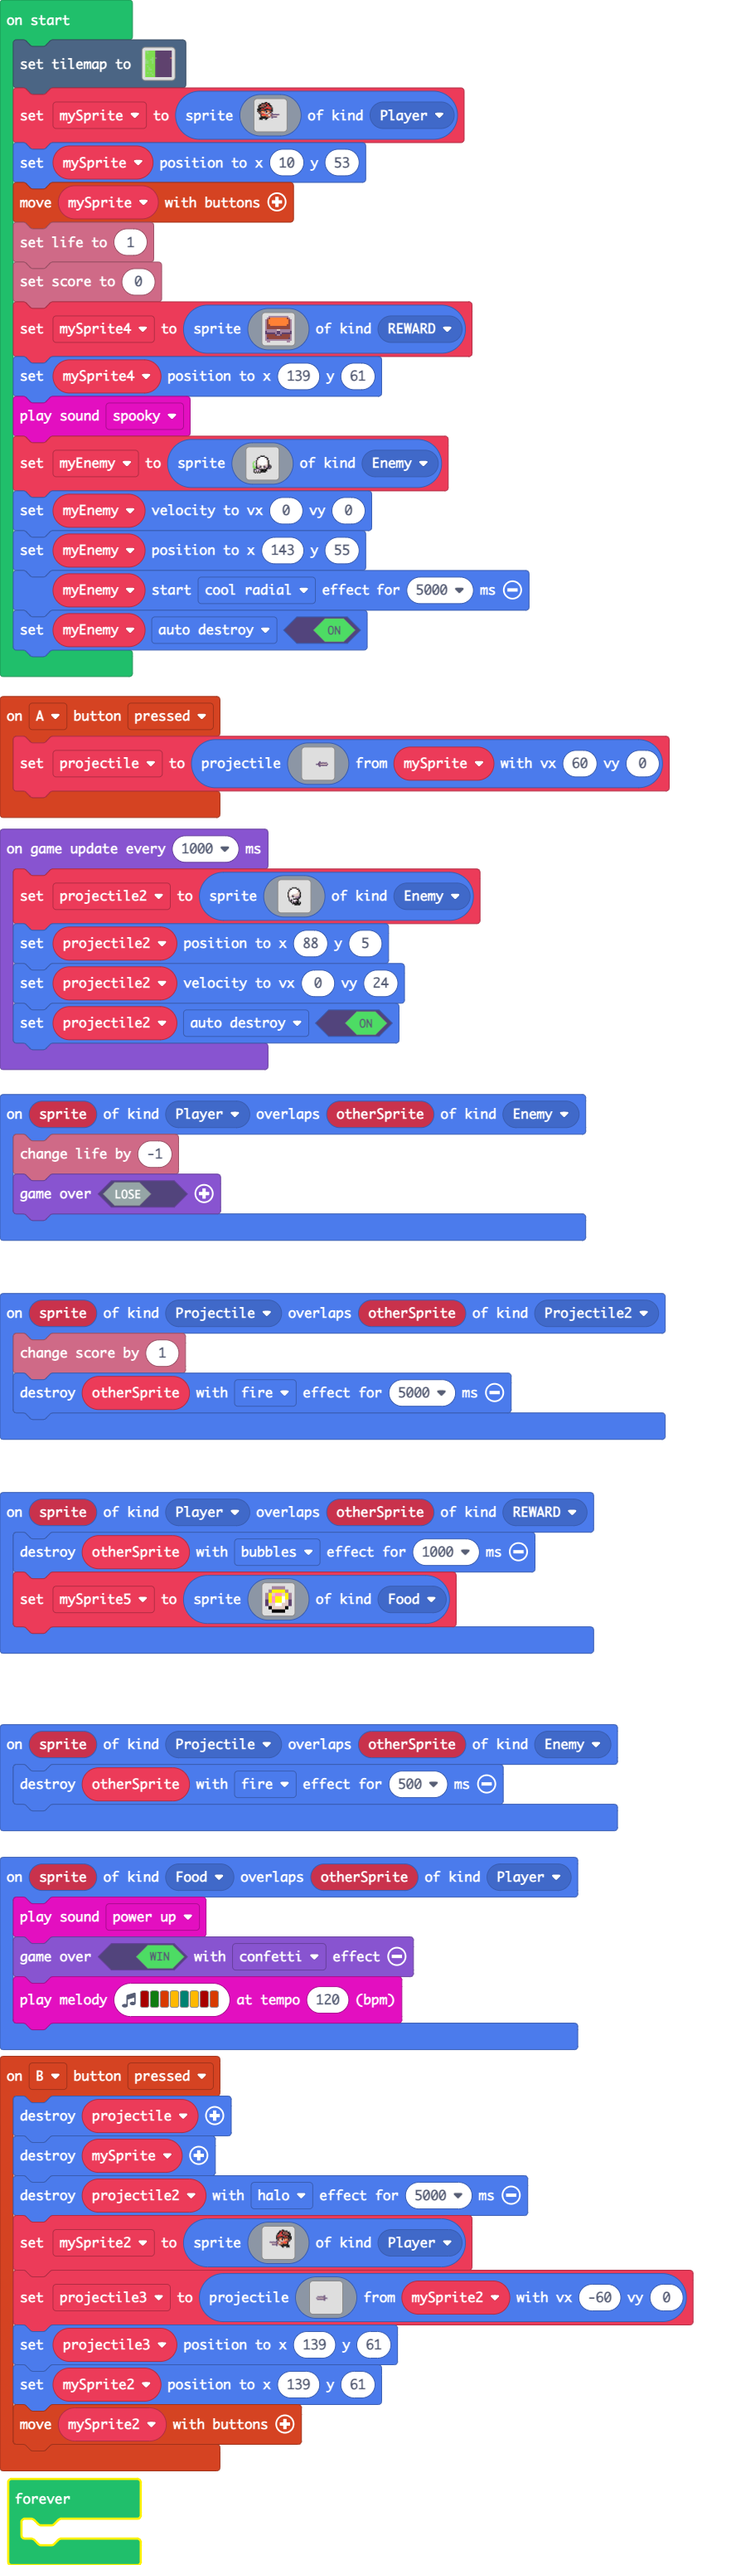
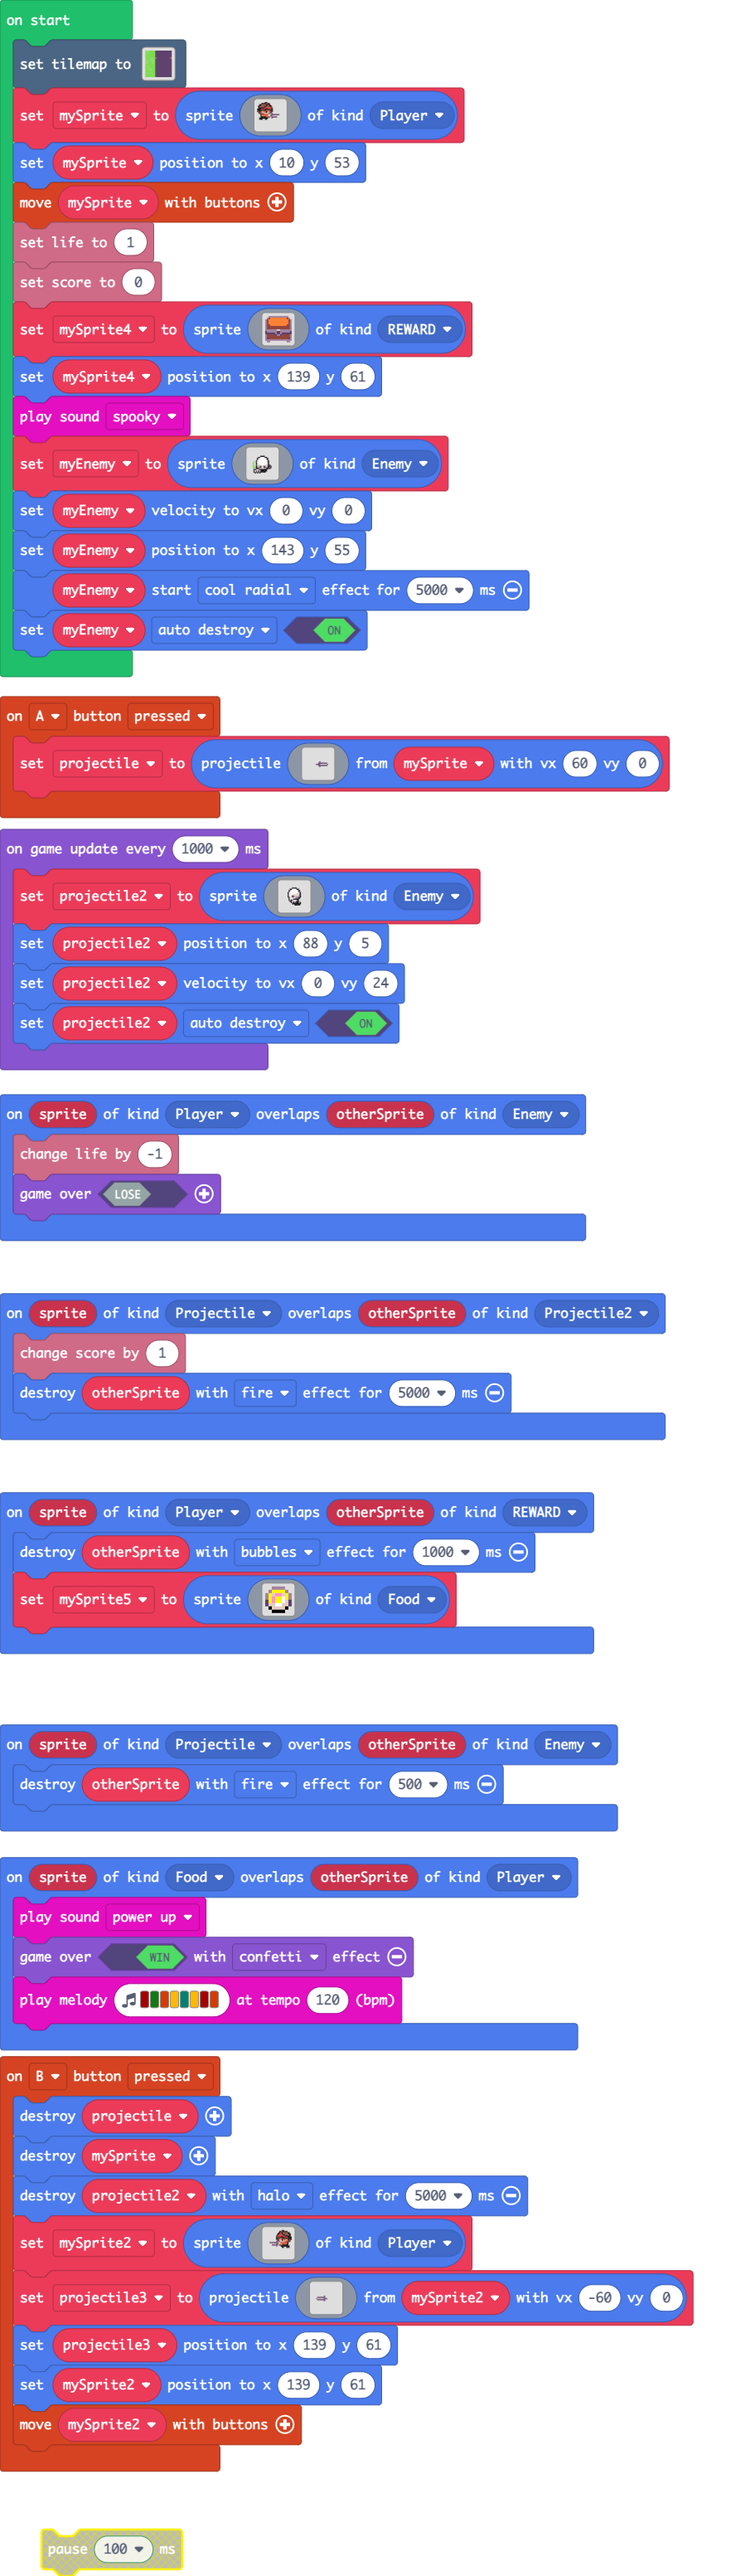
Update main.blocks, main.ts

Changed region(s): [[0.0, 0.031, 0.9426, 1.0], [0.5169, 0.031, 0.5777, 0.0621]]

diff --git a/main.ts b/main.ts
@@ -165,6 +165,3 @@ game.onUpdateInterval(1000, function () {
     projectile2.setVelocity(0, 24)
     projectile2.setFlag(SpriteFlag.AutoDestroy, true)
 })
-forever(function () {
-	
-})
